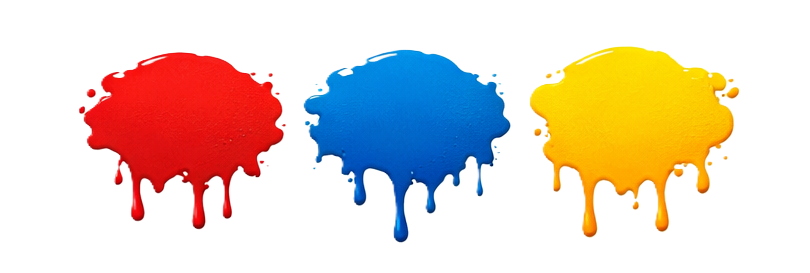
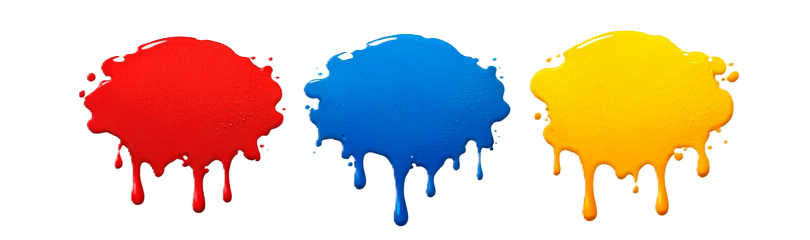
adicion de colores aleatorios y js

diff --git a/html/index.html b/html/index.html
@@ -16,16 +16,36 @@
             donde podras crear tus propias paletad de colores 
             de una manera facil y rapida.
         </p>
+        </header>
 <!-- tipos de paletas que se pueden crear -->
-    <h3>tipos de paletas</h3>
-    </header>
-    <main>
-        <article>
-        </article>
-    </main>
-    <button id="paleta1"> <img 1 src="/img/paleta1.png" alt="Logo de paleta 3 colores" width="120" /></button>
-    <button id="paleta2"> <img 2 src="/img/paleta2.png" alt="Logo de paleta 5 colores" width="120" /></button>
-    <button id="paleta3"> <img 3 src="/img/paleta3.png" alt="Logo de paleta 9 colores" width="120" /></button>
+<main>
 
-</body>
+    <h3>tipos de paletas</h3>
+
+    <style>
+    #palette { display:flex; gap:10px; margin:20px; }
+    .box { width:30px; height:30px; border:1px solid #000; }
+    </style>
+    <div id="palette1"></div>
+    <button onclick="generate1()"><img 1 src="/img/paleta1.png" alt="Logo de paleta 3 colores" width="100" /></button>
+    <h3>🎨 Paleta de 3 Colores</h3>       
+
+    <style>
+    #palette { display:flex; gap:10px; margin:20px; }
+    .box { width:30px; height:30px; border:1px solid #000; }
+    </style>
+    <div id="palette2"></div>
+    <button onclick="generate2()"> <img 2 src="/img/paleta2.png" alt="Logo de paleta 6 colores" width="120" /></button>
+    <h3>🎨 Paleta de 6 Colores</h3>
+
+    <style>
+    #palette { display:flex; gap:10px; margin:20px; }
+    .box { width:30px; height:30px; border:1px solid #000; }
+    </style>
+    <div id="palette3"></div>
+    <button onclick="generate3()"> <img 3 src="/img/paleta3.png" alt="Logo de paleta 9 colores" width="120" /></button>
+    <h3>🎨 Paleta de 9 Colores</h3>
+</main>
+<script src="/js/script.js"></script>
+    </body>
 </html>

diff --git a/js/script.js b/js/script.js
@@ -1,0 +1,51 @@
+function randomColor(){ 
+  return '#' + Math.floor(Math.random()*16777215).toString(16).padStart(6,'0'); 
+}
+
+function generate1(){
+  const p = document.getElementById('palette1'); 
+  p.innerHTML = '';
+  for(let i=0; i<3; i++){
+    const c = randomColor();
+    const b = document.createElement('div');
+    b.className = 'box'; 
+    b.style.background = c;
+    p.appendChild(b);
+  }
+}
+window.onload = generate;
+
+
+function randomColor(){ 
+  return '#' + Math.floor(Math.random()*16777215).toString(16).padStart(6,'0'); 
+}
+
+function generate2(){
+  const p = document.getElementById('palette2'); 
+  p.innerHTML = '';
+  for(let i=0; i<6; i++){
+    const c = randomColor();
+    const b = document.createElement('div');
+    b.className = 'box'; 
+    b.style.background = c;
+    p.appendChild(b);
+  }
+}
+window.onload = generate;
+
+function randomColor(){ 
+  return '#' + Math.floor(Math.random()*16777215).toString(16).padStart(6,'0'); 
+}
+
+function generate3(){
+  const p = document.getElementById('palette3'); 
+  p.innerHTML = '';
+  for(let i=0; i<9; i++){
+    const c = randomColor();
+    const b = document.createElement('div');
+    b.className = 'box'; 
+    b.style.background = c;
+    p.appendChild(b);
+  }
+}
+window.onload = generate;

diff --git a/css/styles.css b/css/styles.css
@@ -13,16 +13,27 @@ header {
     text-align: center;
     margin-bottom: 20px;
 }
-main {
+main{
+    text-align: center;
+    padding: 20px 20px;
+    max-width: 900px;
+    margin: 20px auto;
+}
+div{
     display: flex;
     justify-content: center;
+    gap: 20px;
 }
-
-button:hover {
+nav{
+    width: 200px;
+    height: 200px;
+    padding: 10px 10px 10px 10px;
+    font-size: 20px;
+}
+button :hover {
     background-color: #560666;
-    color: #4eae21;
-    padding: 5px 5px;
-    font-size: 16px;
-    cursor: pointer;
+    border:rgb(16, 0, 0) 2px solid;
+    padding: 10px 10px;
     transform: scale(1.1);
+    transition: all 0.3s ease;
 }
